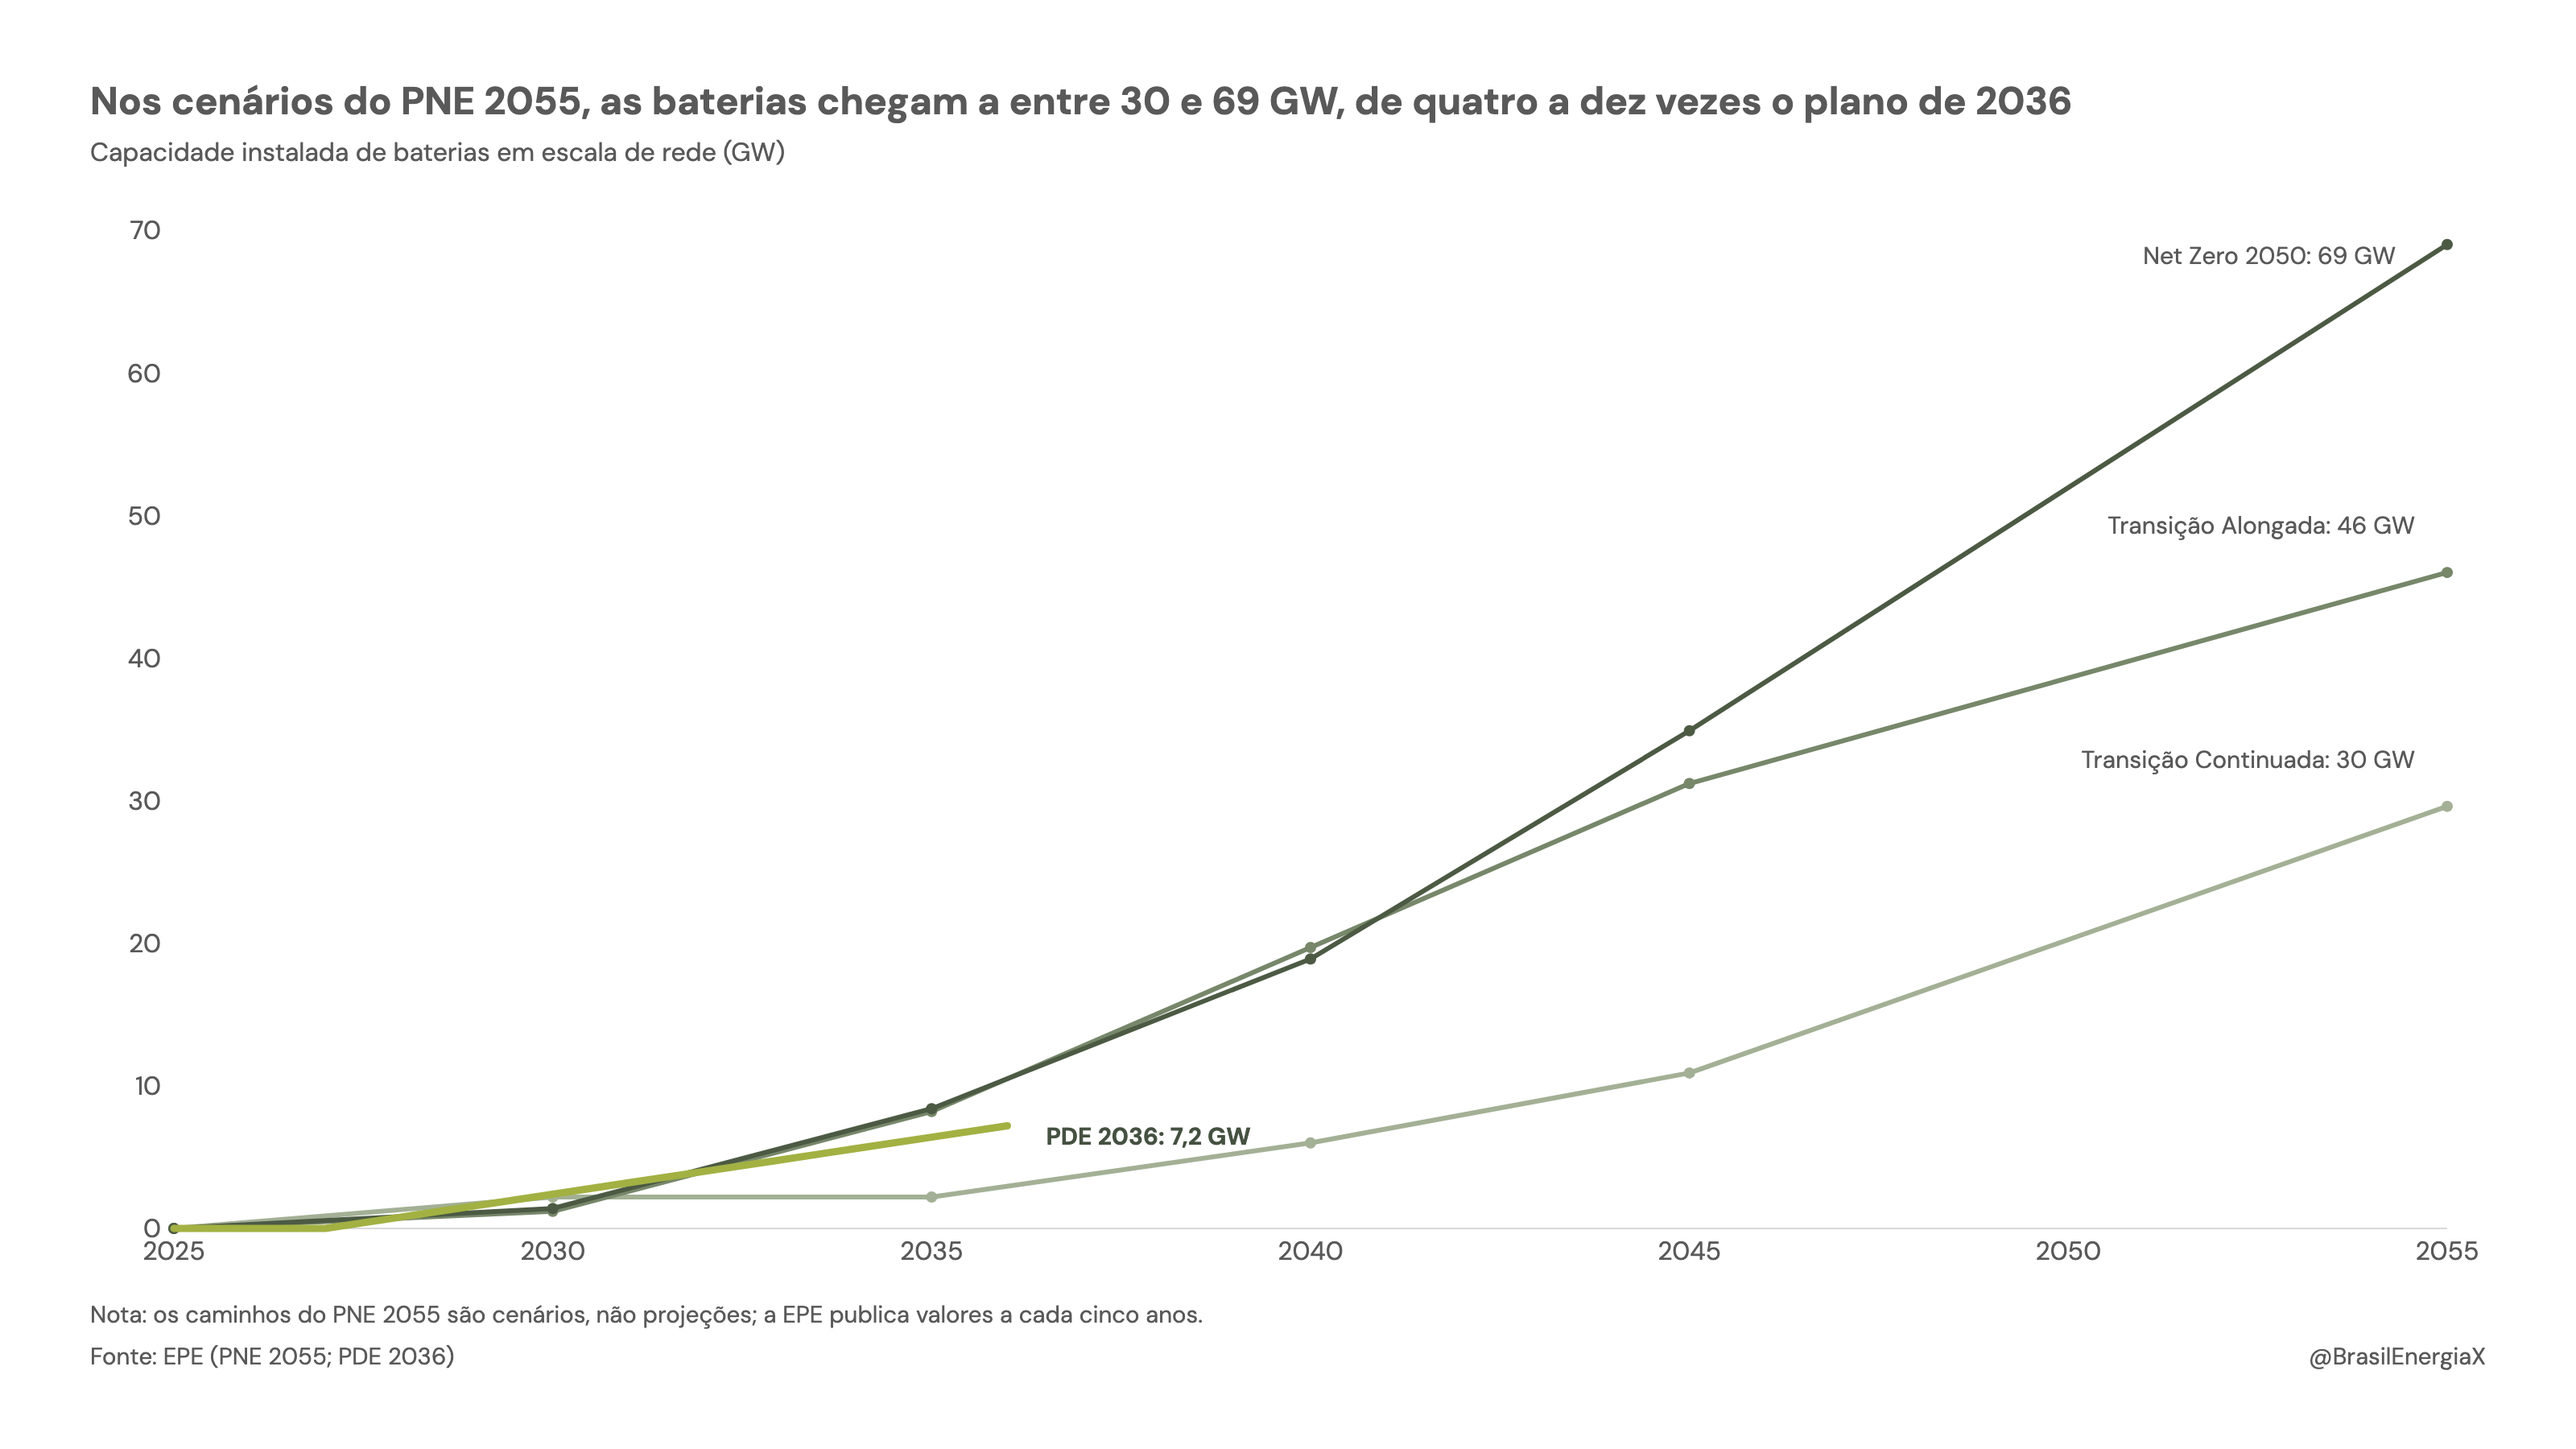
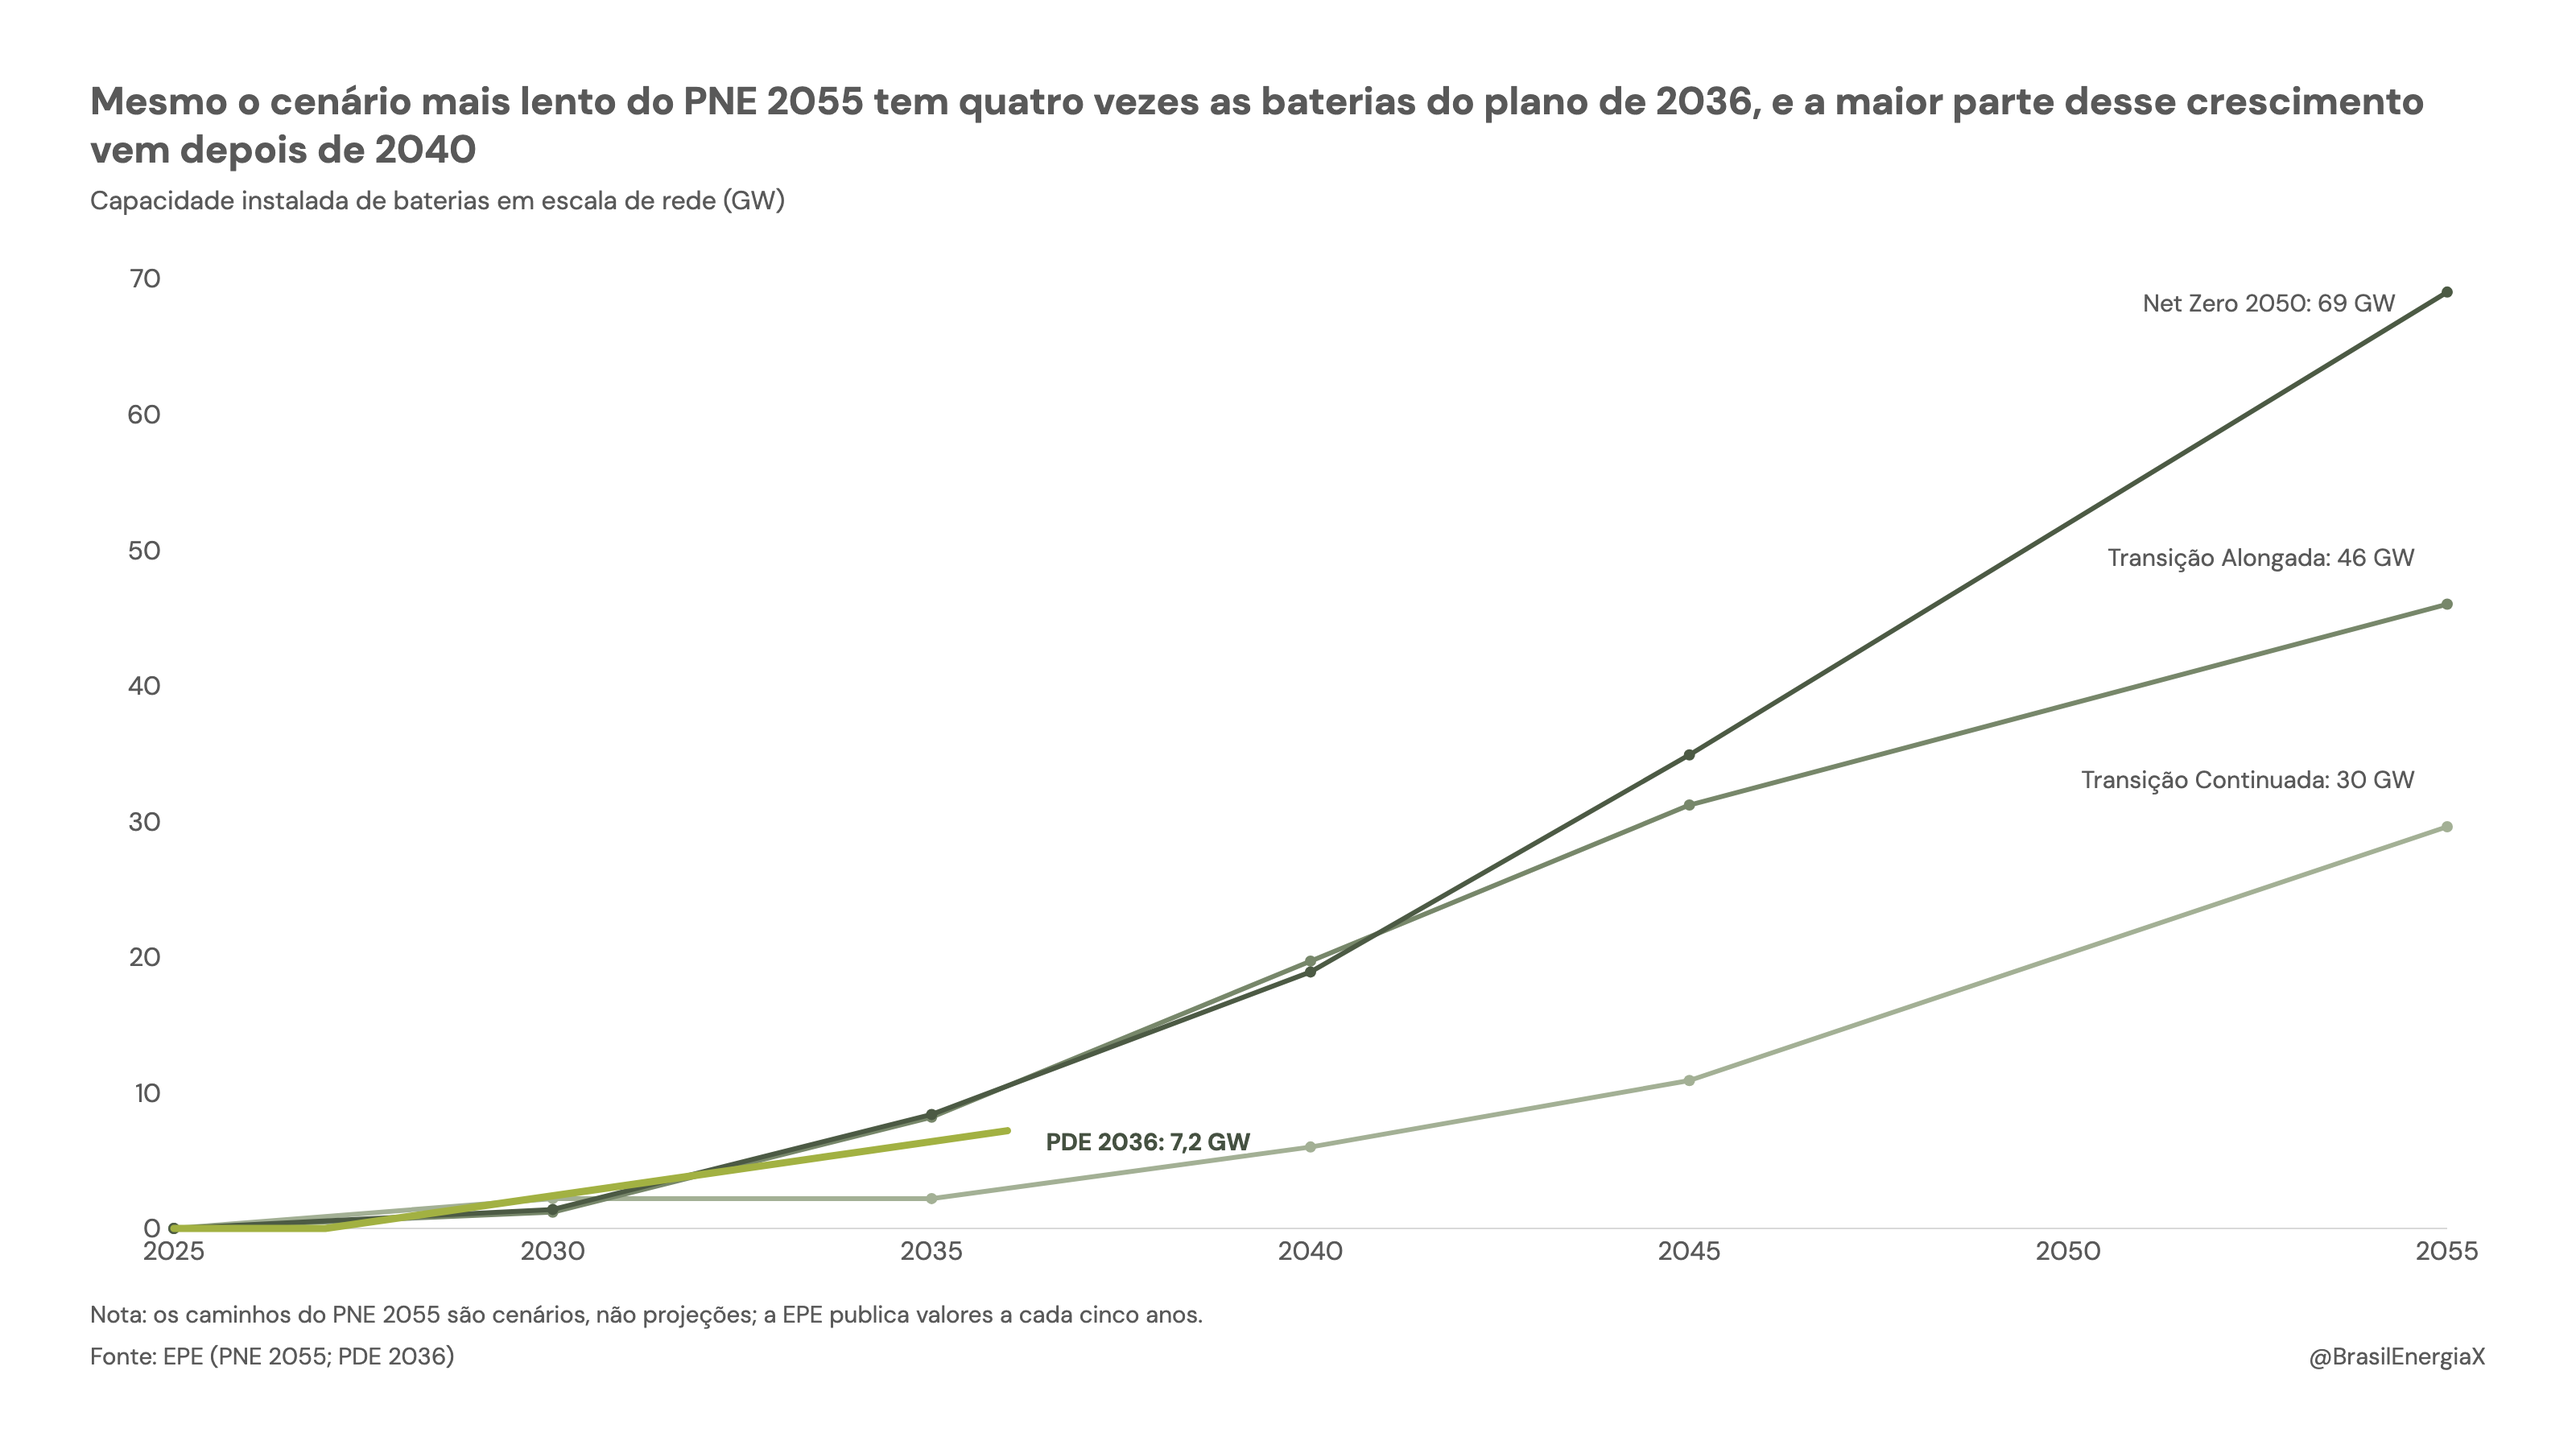
Chart 5: slowest scenario's multiple, no X to Y ranges

diff --git a/storage-outlook/bx-5-cenarios-pne-2055/bx-5-cenarios-pne-2055.html b/storage-outlook/bx-5-cenarios-pne-2055/bx-5-cenarios-pne-2055.html
@@ -3,7 +3,7 @@
 <head>
   <meta charset="UTF-8">
   <meta name="viewport" content="width=device-width, initial-scale=1.0">
-  <title>Nos cenários do PNE 2055, as baterias chegam a entre 30 e 69 GW, de quatro a dez vezes o plano de 2036</title>
+  <title>Mesmo o cenário mais lento do PNE 2055 tem quatro vezes as baterias do plano de 2036, e a maior parte desse crescimento vem depois de 2040</title>
   <link href="https://fonts.googleapis.com/css2?family=DM+Sans:opsz,wght@9..40,400;9..40,500;9..40,700&display=swap" rel="stylesheet">
   <script src="https://cdnjs.cloudflare.com/ajax/libs/react/18.2.0/umd/react.production.min.js"></script>
   <script src="https://cdnjs.cloudflare.com/ajax/libs/react-dom/18.2.0/umd/react-dom.production.min.js"></script>
@@ -103,7 +103,7 @@
       var rs = useState(0); var remount = rs[0], setRemount = rs[1];
       useEffect(function() { var t = setTimeout(function() { setRemount(1); }, 400); return function() { clearTimeout(t); }; }, []);
       var opt = OPTIONS ? OPTIONS.filter(function(o) { return o.key === view; })[0] : null;
-      var title = (opt && opt.title) || "Nos cenários do PNE 2055, as baterias chegam a entre 30 e 69 GW, de quatro a dez vezes o plano de 2036";
+      var title = (opt && opt.title) || "Mesmo o cenário mais lento do PNE 2055 tem quatro vezes as baterias do plano de 2036, e a maior parte desse crescimento vem depois de 2040";
       var fs = { title: 24 * k, sub: 16 * k, axis: 16 * k, label: 15 * k, foot: Math.max(11, 14.67 * k) };
       var ctx = { data: DATASETS[view], view: view, k: k, fs: fs, mob: mob, hl: Q.get("hl"), upto: Q.get("upto") };
       var pad = (mob ? 14 : 48 * k) + "px " + (mob ? 14 : 56 * k) + "px";
